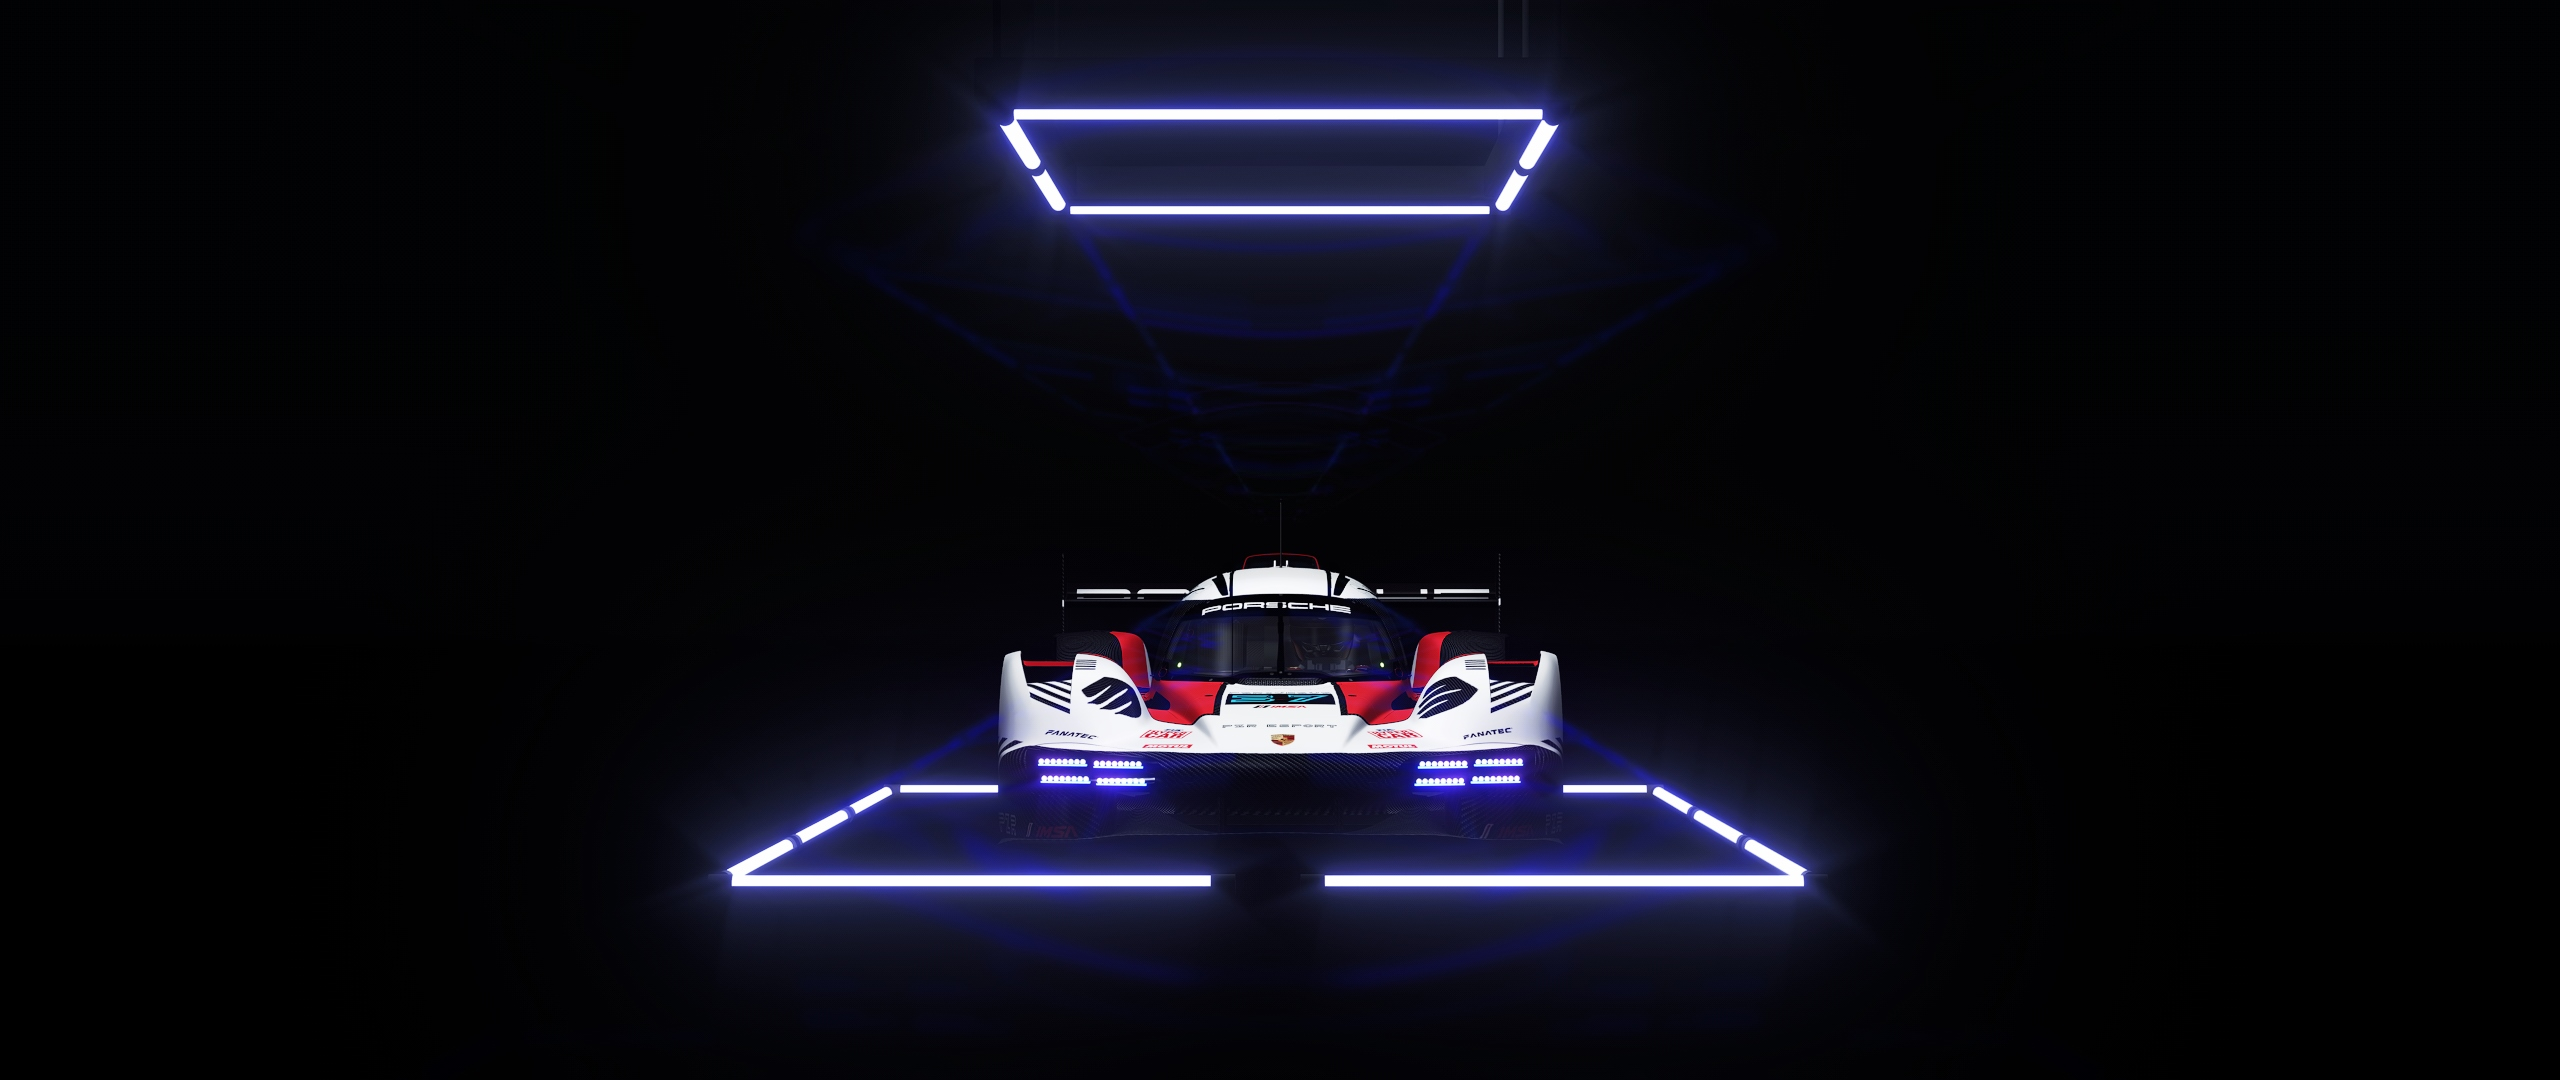
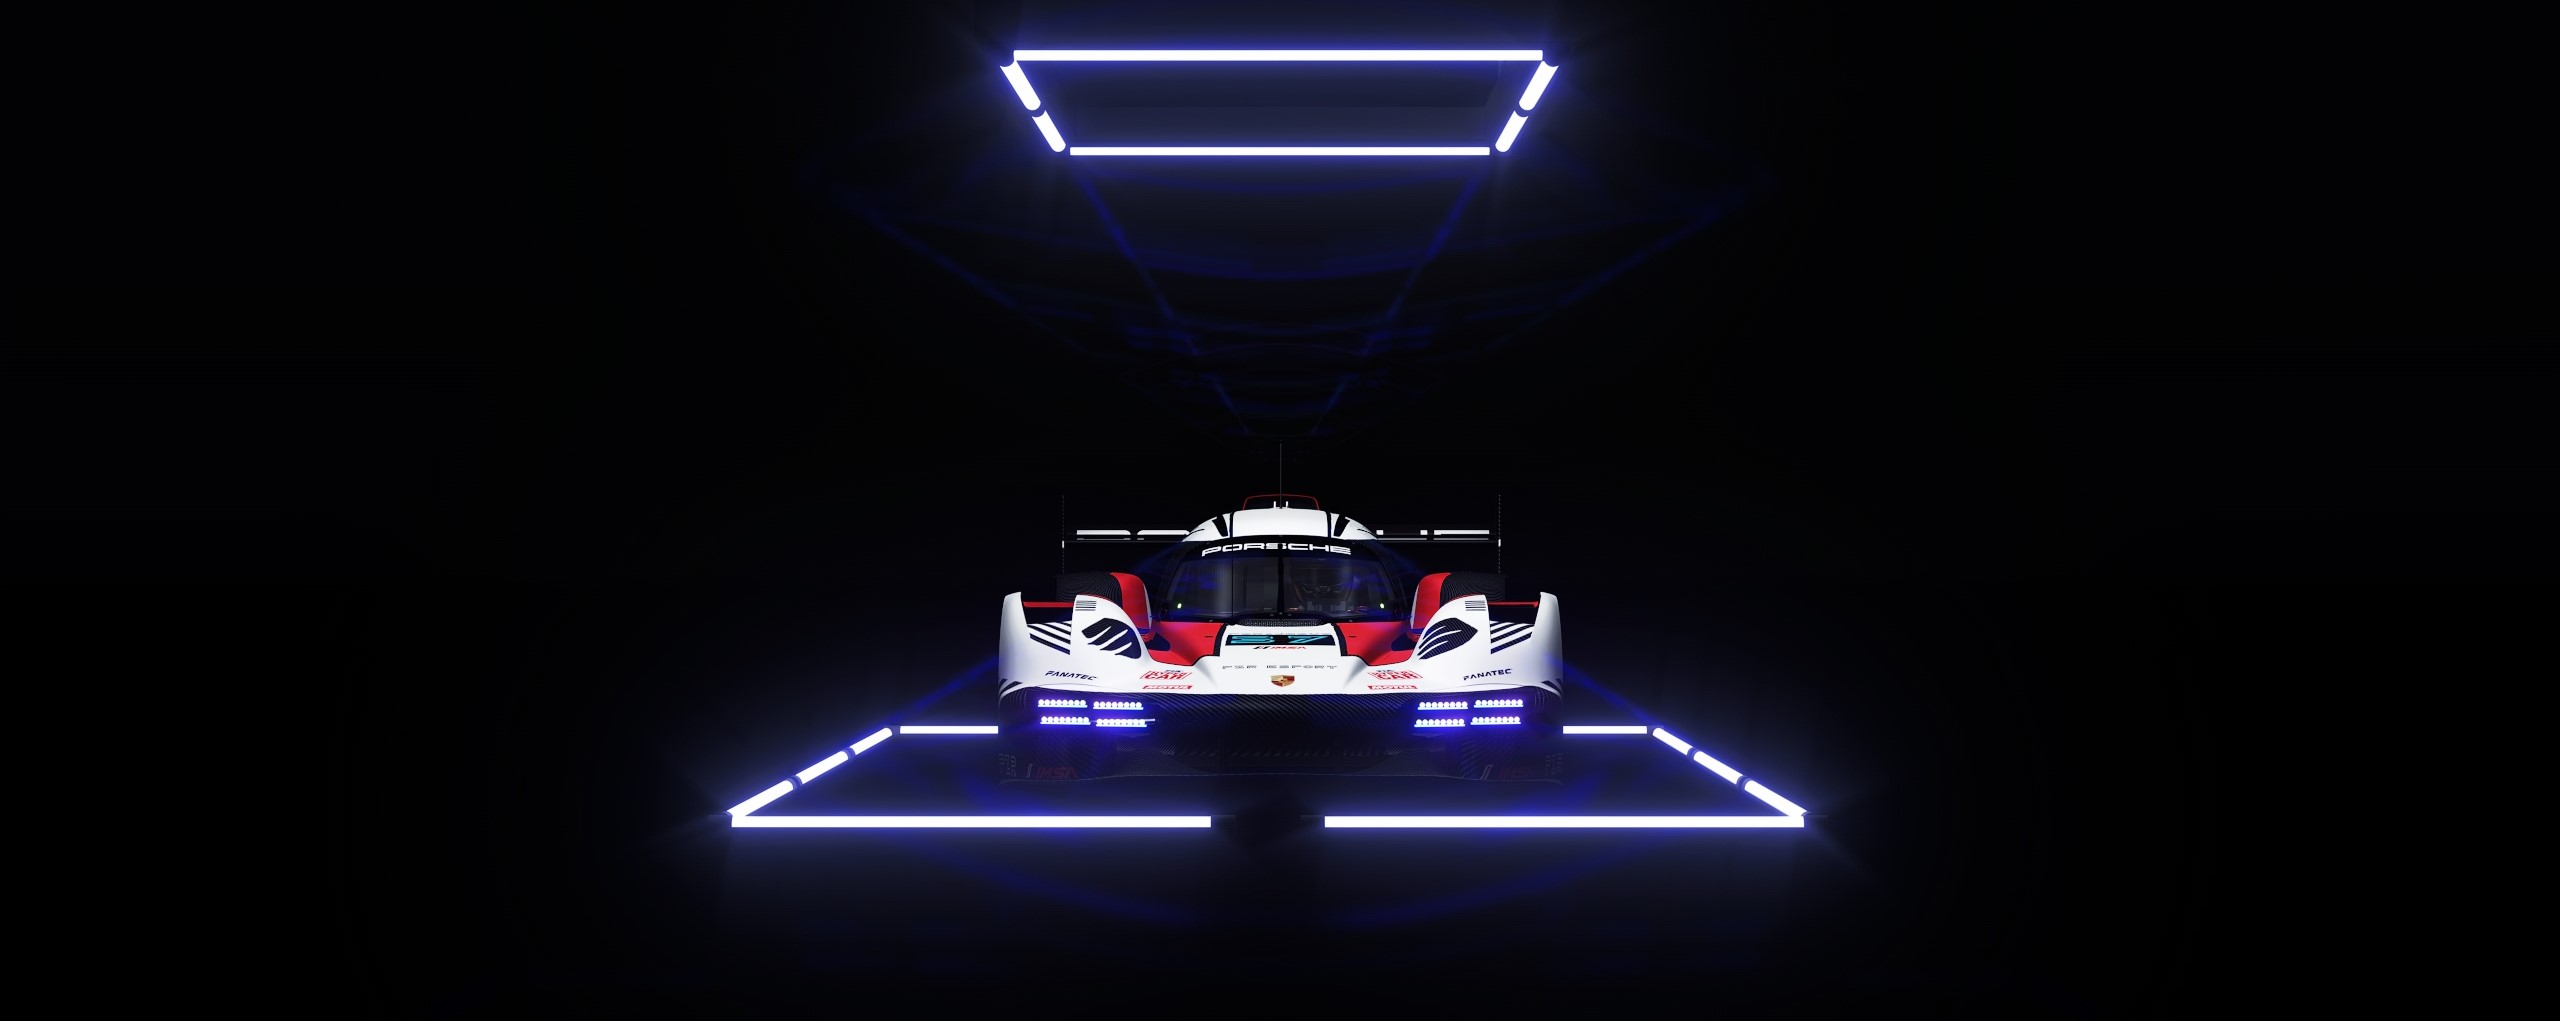
Changed home background

Changed region(s): [[0.2812, 0.4858, 0.7188, 0.8501], [0.375, 0.0, 0.625, 0.3947]]

diff --git a/esport/styles/vertical-fourth2.css b/esport/styles/vertical-fourth2.css
@@ -32,7 +32,13 @@
     transition: max-height 0.5s ease;
 }
 
-@media screen and (max-width: 900px) and (orientation:landscape){
+.vertical_fourth .profile-container .single-profile-container{
+    display: grid;
+    align-content: center
+}
+
+
+@media screen and (max-width: 1000px) and (orientation:landscape){
     .vertical_fourth .profile-container{
         display: grid;
     }
@@ -46,7 +52,7 @@
     width: 100%;
     position: relative;
     margin-top: 50px;
-    min-height: 65vh;
+    min-height: 60vh;
     display: grid;
     border-radius: 40px;
     overflow: hidden;
@@ -103,21 +109,18 @@
     align-items: center;
     justify-content: space-around;
     background-color: transparent;
-    height: 60%;
-    transition: all 0.3s ease-in-out;
-    transition: all 0.3s ease-in;
+    height: 100%;
+    transition: all 0.3s ease-out;
 }
 
 .vertical_fourth .profile-container .profile-picture img{
     width: auto;
-    height: 270px;
+    height: 40vh;
 }
 
 .vertical_fourth .profile-container .description{
     background-color: transparent;
-    margin: 15px;
     overflow-y: auto;
-    height: 40%;
     color: white;
     overflow-y: visible;
     font-family: Tahoma, sans-serif;
@@ -129,13 +132,18 @@
 .vertical_fourth .profile-container #martin_achievements,
 .vertical_fourth .profile-container #mark_achievements{
     display: none;
-    margin-top: 160px; 
+    margin-top: 100px; 
     letter-spacing: 1px;
 }
 
 .vertical_fourth .profile-container .achievements{
     margin-left: 70px;
     padding-top: 10px;
+}
+
+.vertical_fourth .profile-container p,
+.vertical_fourth .profile-container p{
+    margin: 0px;
 }
 
 /* Apply animation to each list item under #martin_achievements or #mark_achievements */
@@ -175,7 +183,6 @@
     left: 50px;
     width: 100%;
     height: 150px;
-    transition: all 0.3s ease-in-out;
 }
 
 .vertical_fourth .profile-container .mark_profile:hover .profile-picture img,
@@ -191,4 +198,18 @@
 .vertical_fourth .profile-container .martin_profile:hover .description {
     padding-top: 160px; /* Adjust for profile picture placement */
     transition: padding-top 0.3s ease-in-out;
+}
+
+@media screen and (width: 2560px) and (orientation:landscape){
+    .vertical_fourth .profile-container{
+        font-size: 20px;
+    }
+    .vertical_fourth .profile-container .mark_profile:hover .profile-picture,
+    .vertical_fourth .profile-container .martin_profile:hover .profile-picture {
+        position: absolute;
+        top: 10px;
+        left: 50px;
+        width: auto;
+        height: 200px;
+    }
 }

diff --git a/esport/styles/home.css b/esport/styles/home.css
@@ -17,7 +17,7 @@ body {
     overflow-x: hidden;
     overflow-y: hidden;
     justify-content: space-evenly;
-    background-image: url(../images/bg/home_bg6.jpg);
+    background-image: url(../images/bg/home_bg4.jpg);
     background-size: cover;
     background-repeat: no-repeat;
     background-position: center;
